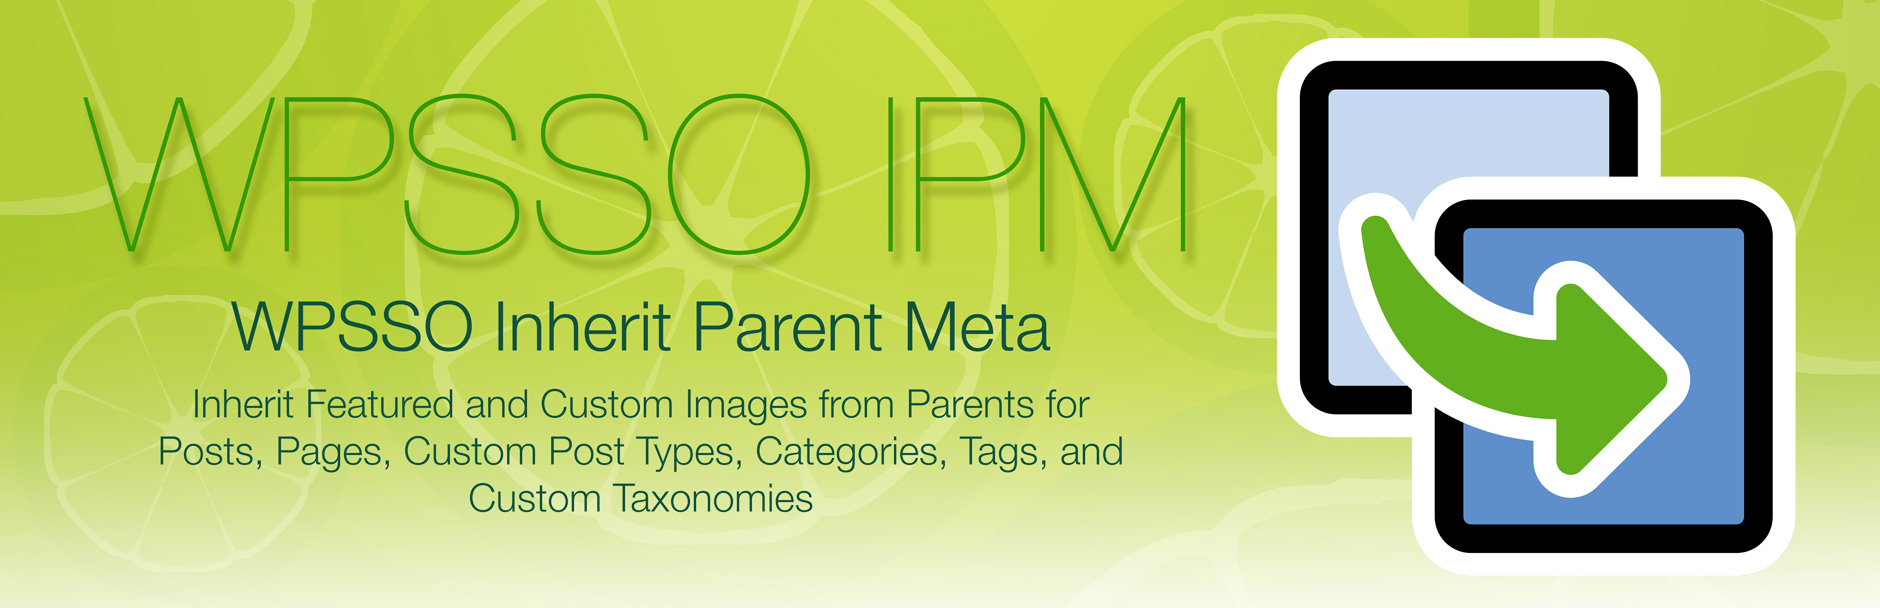
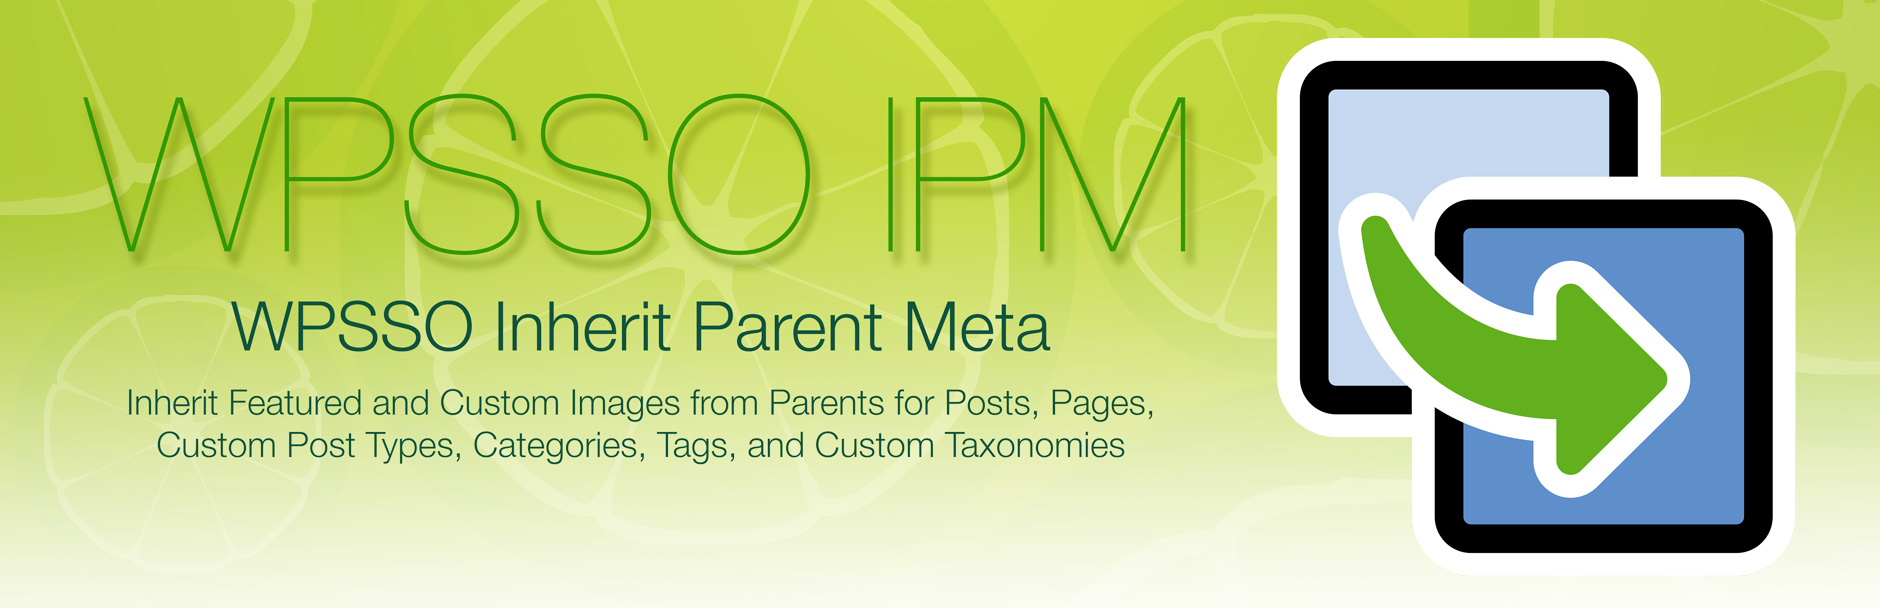
non-essential support files (documentation and assets)

diff --git a/index.html b/index.html
@@ -29,7 +29,7 @@
 
 <table>
 <tr><th align="right" valign="top" nowrap>Plugin Name</th><td>WPSSO Inherit Parent Metadata</td></tr>
-<tr><th align="right" valign="top" nowrap>Summary</th><td>Inherit featured and custom images from parents for posts, pages, custom post types, categories, tags, and custom taxonomies.</td></tr>
+<tr><th align="right" valign="top" nowrap>Summary</th><td>Inherit Featured and Custom Images from Parents for Posts, Pages, Custom Post Types, Categories, Tags, and Custom Taxonomies.</td></tr>
 <tr><th align="right" valign="top" nowrap>Stable Version</th><td>2.1.0</td></tr>
 <tr><th align="right" valign="top" nowrap>Requires PHP</th><td>5.6 or newer</td></tr>
 <tr><th align="right" valign="top" nowrap>Requires WordPress</th><td>4.2 or newer</td></tr>
